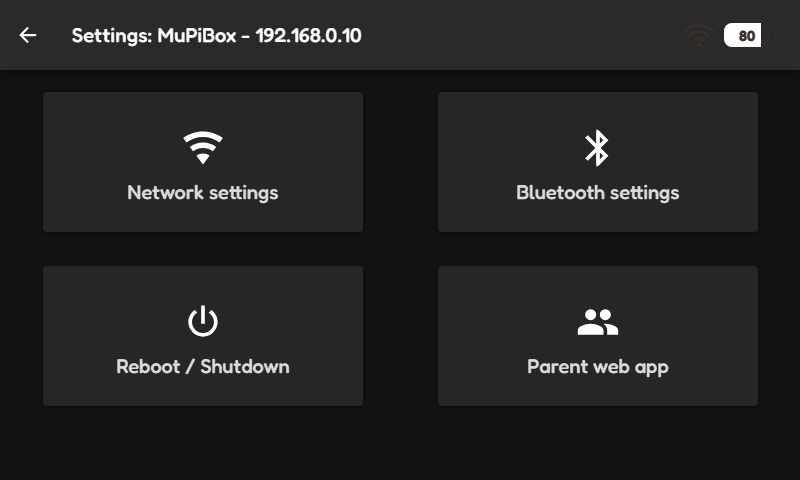
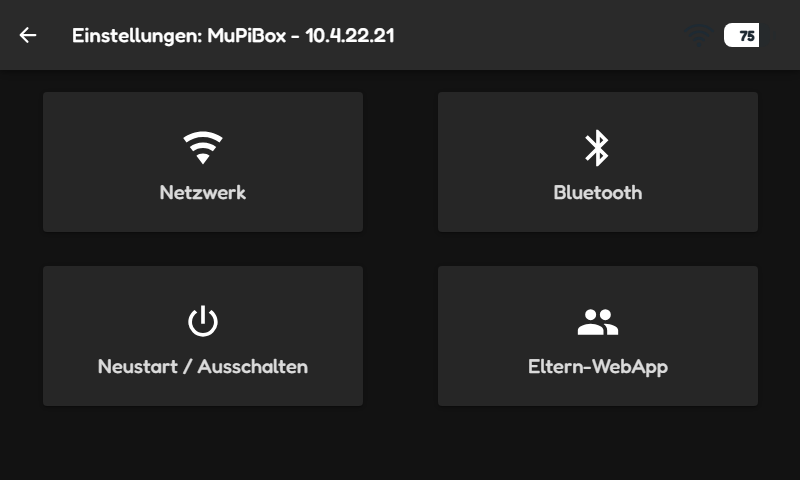
Handbuch (de/en): Einstellungen am Display in der Box-Sprache, neuer Abschnitt Ruhezeit/Tageslimit mit Eltern-Zugang, Uhrzeit-Hinweis und Hotspot-Weg, neue Bilder; News 5.0.12

diff --git a/src/backend-api/src/manual/content/en/bedienung/eltern-zugang.md b/src/backend-api/src/manual/content/en/bedienung/eltern-zugang.md
@@ -6,18 +6,33 @@ A few things can be set directly on the display, without a phone. They are meant
 
 Press and hold the **status indicator** at the top right of the display (the symbols for Wi-Fi, battery and the like). The hold time can be set from 1 to 10 seconds under **Settings › Display & controls › Controls on the display › Hold times › Hold time for settings access**. Below 3 seconds children easily get in.
 
-The settings on the display open with four tiles:
+The settings on the display open with four tiles, labelled in the box's language (**Settings › System › Language**; English when none is chosen):
 
 | Tile | Effect |
 | --- | --- |
-| **Network settings** | set up Wi-Fi and LAN (see below) |
-| **Bluetooth settings** | pair headphones and speakers ([Bluetooth](../hardware/bluetooth.md)) |
-| **Reboot / Shutdown** | restart the box or switch it off |
+| **Network** | set up Wi-Fi and LAN (see below) |
+| **Bluetooth** | pair headphones and speakers ([Bluetooth](../hardware/bluetooth.md)) |
+| **Restart / Shut down** | restart the box or switch it off |
 | **Parent web app** | shows the QR code for the app |
 
 At the top you see the box's hostname and IP address.
 
 ![The settings on the display](display-settings.png)
+
+## During a quiet time or after the daily limit
+
+The lock screen ("Quiet time", "That's enough music for today") also shows the status indicator with Wi-Fi and battery at the top right, and the **time** at the top left. Press and hold the status indicator as usual: the lock screen steps back and the settings open. This way you reach the Wi-Fi and the QR code for the app while the box is locked.
+
+The **lock still applies**: the box plays nothing while the quiet time runs or the limit is reached. A note at the bottom says so. When you go back to the start page, or do not touch the display for 2 minutes, the lock screen is back. You can only lift the lock in the app or through Telegram ([Instant actions](../spielzeit/schlaftimer.md)).
+
+![The lock screen with time, Wi-Fi and battery](display-locked.png)
+
+If **"Time not synchronised"** shows under the time, the box has not fetched the time from the network since it was switched on. The Raspberry Pi has no clock of its own: without a network it carries on from the time it was switched off, and a quiet time or the limit from back then may still apply. On the road, your phone's hotspot helps:
+
+1. Switch on the hotspot on your phone.
+2. Press and hold the status indicator on the display and connect the box to the hotspot under **Network**.
+3. The box fetches the time. If the lock no longer applies, it goes away by itself.
+4. If it still applies, tap **Parent web app**, scan the QR code (the phone is in the same network) and tap **Lift lock** in the app.
 
 ## The QR code for parents
 
@@ -25,7 +40,7 @@ Tap **Parent web app**. A **QR code** appears. Scan it with your phone: you are 
 
 ## Network settings
 
-The **Network settings** tile opens the network settings. If there is a LAN port, you choose between **WiFi** and **LAN** at the top (the LAN settings are also there when no cable is plugged in).
+The **Network** tile opens the network settings. If there is a LAN port, you choose between **WiFi** and **LAN** at the top (the LAN settings are also there when no cable is plugged in).
 
 ### Wi-Fi
 

diff --git a/src/backend-api/src/manual/content/de/erste-schritte/app-oeffnen.md b/src/backend-api/src/manual/content/de/erste-schritte/app-oeffnen.md
@@ -26,7 +26,7 @@ Die Startseite der Box ist das Anmeldefenster der App. Von dort gelangst du in d
 Die App kennt mehrere Wege hinein:
 
 - **Mit Passwort**, das du unter **Einstellungen › Sicherheit › Passwort & Anmeldung** vergibst. Es gilt für die ganze App, am Handy wie am PC.
-- **Per QR-Code am Display**: Halte die Statusanzeige oben rechts am Display einige Sekunden gedrückt (die Haltezeit ist einstellbar unter **Einstellungen › Display & Bedienung › Bedienung am Display**). Es öffnen sich die Einstellungen am Display. Tippe dort auf **Parent web app**: Es erscheint ein QR-Code, den du mit dem Handy scannst. Das geht auch ohne Passwort ([Einstellungen am Display](../bedienung/eltern-zugang.md)).
+- **Per QR-Code am Display**: Halte die Statusanzeige oben rechts am Display einige Sekunden gedrückt (die Haltezeit ist einstellbar unter **Einstellungen › Display & Bedienung › Bedienung am Display**). Es öffnen sich die Einstellungen am Display. Tippe dort auf **Eltern-WebApp** (auf einer Box ohne gewählte Sprache **Parent web app**): Es erscheint ein QR-Code, den du mit dem Handy scannst. Das geht auch ohne Passwort ([Einstellungen am Display](../bedienung/eltern-zugang.md)).
 - **Mit einem Link über Telegram**, wenn du den Bot eingerichtet hast ([Telegram](../netzwerk/telegram.md)).
 
 Ist **Anmeldung verlangen** eingeschaltet, schützt die Box auch ihre Display-Seite und ihre Schnittstelle vor Zugriffen aus dem Netzwerk. Die Box selbst, ihr Display und ihre eigenen Dienste sind davon nicht betroffen.

diff --git a/src/backend-api/src/manual/content/de/erste-schritte/erster-start.md b/src/backend-api/src/manual/content/de/erste-schritte/erster-start.md
@@ -14,7 +14,7 @@ Das Startbild ist eine von 15 Szenen, die Karte oder jeden Start zufällig. Du w
 Die Box braucht ein WLAN, damit du sie von Handy oder PC aus einrichten kannst und damit Spotify, Podcasts und Radio funktionieren. Wenn sie noch kein Netz kennt, richtest du es am Display ein:
 
 1. Öffne die Einstellungen am Display ([Einstellungen am Display](../bedienung/eltern-zugang.md)).
-2. Tippe auf die Kachel **Network settings**. Hängt die Box gerade am Kabel, wähle oben **WiFi**.
+2. Tippe auf die Kachel **Network** (auf einer neuen Box ist die Sprache noch Englisch; auf Deutsch heißt sie **Netzwerk**). Hängt die Box gerade am Kabel, wähle oben **WiFi**.
 3. Tippe in der Liste neben deinem Netz auf **Connect** und gib das Passwort ein. Ein verstecktes Netz trägst du mit **Add network** selbst ein.
 
 Die Box bleibt im aktuellen Netz und wechselt erst, wenn das neue erreichbar ist. Mehr dazu, auch zu einer festen IP-Adresse und zum Kabelanschluss: [WLAN und LAN](../netzwerk/wlan-und-lan.md).

diff --git a/src/backend-api/src/manual/content/en/erste-schritte/erster-start.md b/src/backend-api/src/manual/content/en/erste-schritte/erster-start.md
@@ -14,7 +14,7 @@ The boot screen is one of 15 scenes or the card, or a random one at every start.
 The box needs a Wi-Fi so that you can set it up from a phone or PC and so that Spotify, podcasts and radio work. If it does not know a network yet, set one up on the display:
 
 1. Open the settings on the display ([Settings on the display](../bedienung/eltern-zugang.md)).
-2. Tap the **Network settings** tile. If the box is connected by cable right now, choose **WiFi** at the top.
+2. Tap the **Network** tile. If the box is connected by cable right now, choose **WiFi** at the top.
 3. In the list, tap **Connect** next to your network and enter the password. A hidden network you enter yourself with **Add network**.
 
 The box stays in the current network and only switches when the new one is reachable. More about this, also about a fixed IP address and the cable connection: [Wi-Fi and LAN](../netzwerk/wlan-und-lan.md).

diff --git a/src/backend-api/src/manual/content/de/spielzeit/index.md b/src/backend-api/src/manual/content/de/spielzeit/index.md
@@ -13,6 +13,8 @@ In der App unter **Spielzeit** bestimmst du, wann und wie lange die Box spielt.
 
 Ist das Limit aufgebraucht oder läuft eine Ruhezeit, erscheint auf dem Display ein Hinweis statt des Players. Den Text änderst du unter **Einstellungen › Aussehen › Texte auf dem Display** (Bildschirme „Limit erreicht“, „Ruhezeit“ und „QR-Code für Eltern“). Leer heißt: Der Text der eingestellten Box-Sprache gilt.
 
+Oben auf dem Sperrbild stehen die Uhrzeit sowie WLAN und Akku. Hältst du WLAN und Akku gedrückt, kommst du als Eltern auch jetzt an die Einstellungen am Display, etwa um ein WLAN einzurichten oder den QR-Code für die App zu zeigen. Die Sperre gilt dabei weiter ([Während einer Ruhezeit oder nach dem Tageslimit](../bedienung/eltern-zugang.md)).
+
 Ein kleines Symbol auf dem Display zeigt die verbleibende Spielzeit an.
 
 ## Hörschutz

diff --git a/src/backend-api/src/manual/content/en/spielzeit/index.md b/src/backend-api/src/manual/content/en/spielzeit/index.md
@@ -13,6 +13,8 @@ In the app under **Playtime** you decide when and how long the box plays.
 
 If the limit is used up or a quiet time is running, the display shows a message instead of the player. You change the text under **Settings › Appearance › Text on the display** (the screens “Limit reached”, “Quiet time” and “QR code for parents”). Empty means: the text of the set box language applies.
 
+At the top of the lock screen you see the time as well as Wi-Fi and battery. If you press and hold Wi-Fi and battery, you as a parent reach the settings on the display even now, for example to set up a Wi-Fi or to show the QR code for the app. The lock still applies ([During a quiet time or after the daily limit](../bedienung/eltern-zugang.md)).
+
 A small symbol on the display shows the remaining playtime.
 
 ## Hearing protection
